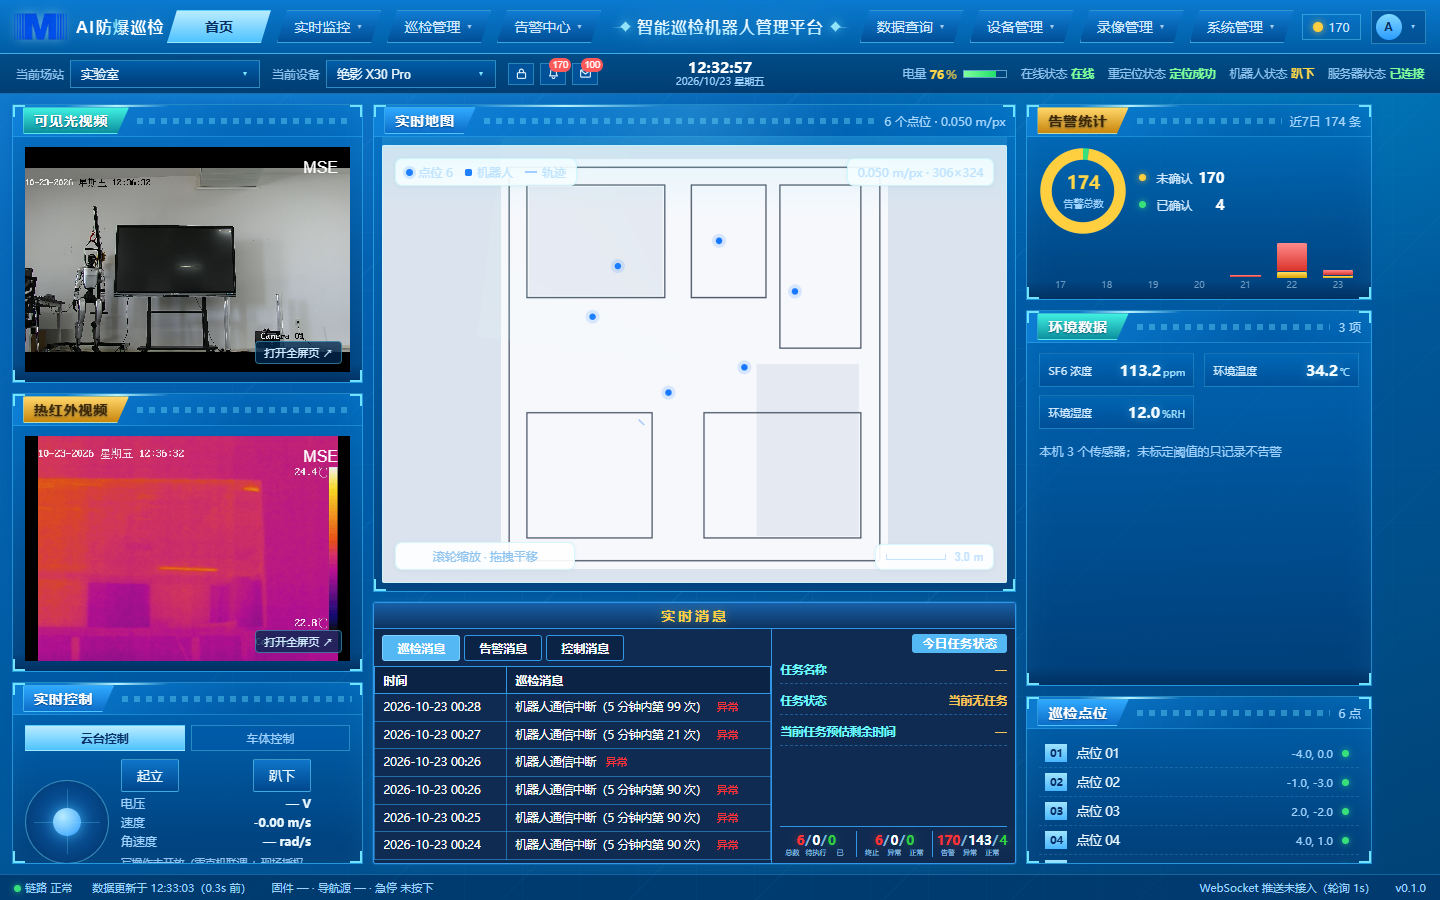
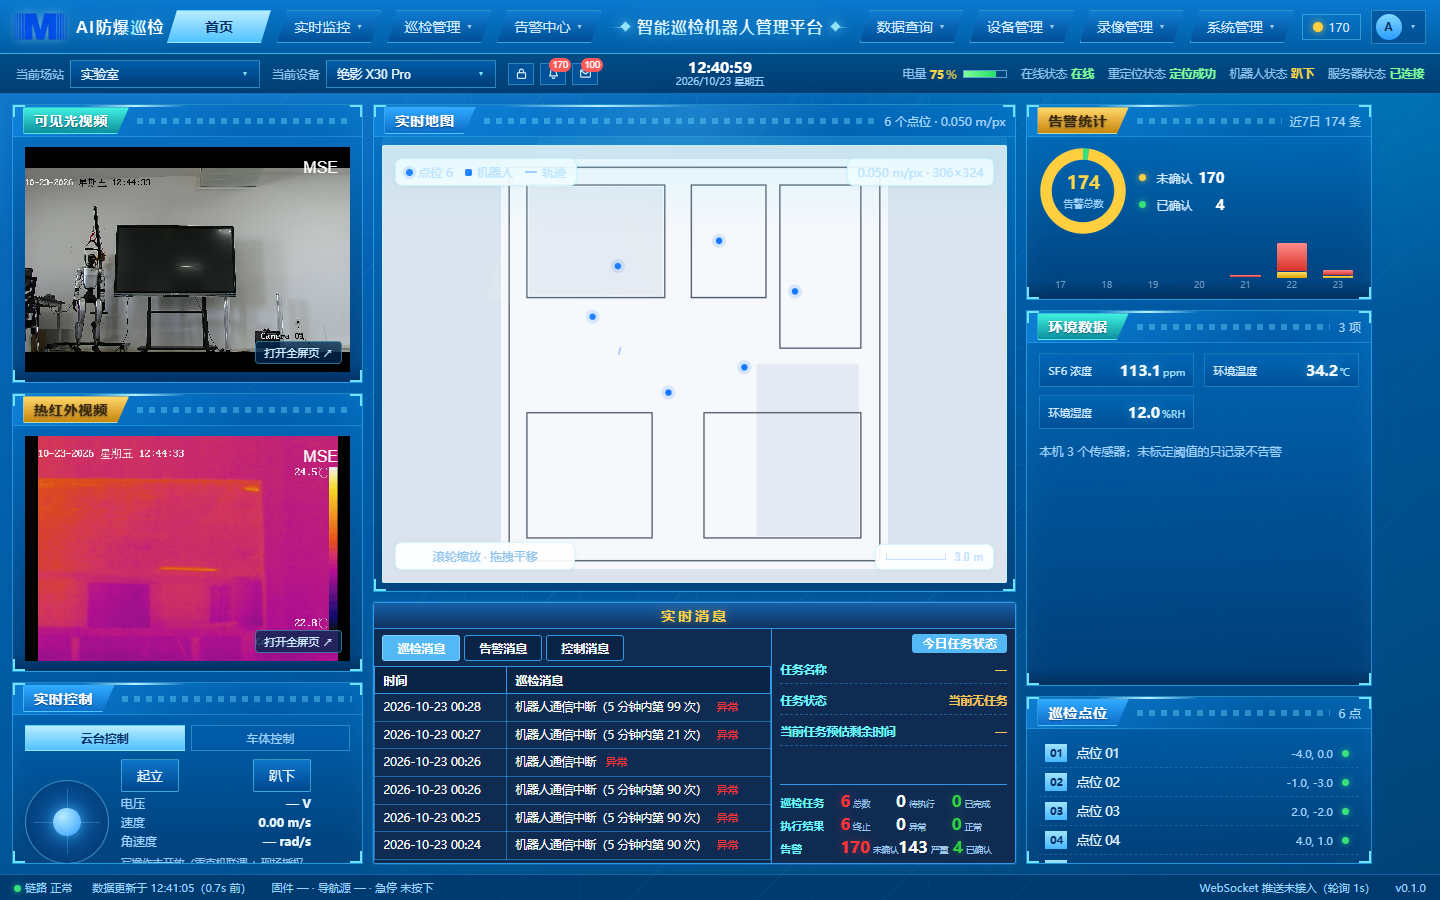
style(dashboard): 右侧底部指标重排——数字放大且完整显示
原来的三列"数字/数字/数字"在 38% 宽度里放不下 170/143 这种三位数，
改成一指标一行的矩阵式排布：

  巡检任务   6 总数    0 待执行   0 已完成
  执行结果   6 终止    0 异常     0 正常
  告警     170 未确认 143 严重    4 已确认

- 数字 16px / 800 字重（比原来 13px 大），语义色红/白/绿 + 发光
- 每行 grid(60px + 3×1fr) 对齐，三列数字上下对齐，扫读更快
- 小标签 8.5px 跟在数字右边，不再换行/裁切

Changed region(s): [[0.5312, 0.8711, 0.6875, 0.9644], [0.5, 0.0622, 0.5312, 0.0933]]

diff --git a/web/src/pages/Dashboard.vue b/web/src/pages/Dashboard.vue
@@ -538,17 +538,23 @@ async function logout() {
               <div class="rt-line"><span>当前任务预估剩余时间</span><b>{{ runEta }}</b></div>
 
               <div class="rt-groups">
-                <div class="rt-group">
-                  <div class="nums"><i class="r">{{ runStats.total }}</i><em>/</em><i class="w">{{ runStats.planned }}</i><em>/</em><i class="g">{{ runStats.done }}</i></div>
-                  <div class="caps"><span>总数</span><span>待执行</span><span>已</span></div>
+                <div class="rt-grow">
+                  <b class="gl">巡检任务</b>
+                  <span class="gv"><i class="r">{{ runStats.total }}</i><em>总数</em></span>
+                  <span class="gv"><i class="w">{{ runStats.planned }}</i><em>待执行</em></span>
+                  <span class="gv"><i class="g">{{ runStats.done }}</i><em>已完成</em></span>
                 </div>
-                <div class="rt-group">
-                  <div class="nums"><i class="r">{{ runStats.cancelled }}</i><em>/</em><i class="w">{{ runStats.failed }}</i><em>/</em><i class="g">{{ runStats.done }}</i></div>
-                  <div class="caps"><span>终止</span><span>异常</span><span>正常</span></div>
+                <div class="rt-grow">
+                  <b class="gl">执行结果</b>
+                  <span class="gv"><i class="r">{{ runStats.cancelled }}</i><em>终止</em></span>
+                  <span class="gv"><i class="w">{{ runStats.failed }}</i><em>异常</em></span>
+                  <span class="gv"><i class="g">{{ runStats.done }}</i><em>正常</em></span>
                 </div>
-                <div class="rt-group">
-                  <div class="nums"><i class="r">{{ alarmUnacked }}</i><em>/</em><i class="w">{{ alarmCritical }}</i><em>/</em><i class="g">{{ alarmAcked }}</i></div>
-                  <div class="caps"><span>告警</span><span>异常</span><span>正常</span></div>
+                <div class="rt-grow">
+                  <b class="gl">告警</b>
+                  <span class="gv"><i class="r">{{ alarmUnacked }}</i><em>未确认</em></span>
+                  <span class="gv"><i class="w">{{ alarmCritical }}</i><em>严重</em></span>
+                  <span class="gv"><i class="g">{{ alarmAcked }}</i><em>已确认</em></span>
                 </div>
               </div>
             </aside>
@@ -1353,17 +1359,17 @@ async function logout() {
   color: #f7c355; font-weight: 800; letter-spacing: .3px; text-align: right; max-width: 62%;
   overflow: hidden; text-overflow: ellipsis; white-space: nowrap;
 }
-.rt-groups { display: grid; grid-template-columns: repeat(3, minmax(0, 1fr)); gap: 0; margin-top: auto; flex: none;
-  border-top: 1px solid #3098e8; padding-top: 4px; }
-.rt-group { padding: 0 4px; border-left: 1px solid #3098e8; min-width: 0; }
-.rt-group:first-child { border-left: 0; padding-left: 0; }
-.rt-group .nums { text-align: center; font-size: 13px; font-weight: 700; white-space: nowrap; letter-spacing: -.2px; }
-.rt-group .nums i { font-style: normal; }
-.rt-group .nums em { font-style: normal; color: #7fb6dd; margin: 0 1px; }
-.rt-group .nums .r { color: #ff3333; text-shadow: 0 0 8px rgba(255, 51, 51, .45); }
-.rt-group .nums .w { color: #ffffff; }
-.rt-group .nums .g { color: #30d040; text-shadow: 0 0 8px rgba(48, 208, 64, .45); }
-.rt-group .caps { display: grid; grid-template-columns: repeat(3, 1fr); gap: 0; font-size: 7px; color: #9fc4e8; }
-.rt-group .caps span { text-align: center; white-space: nowrap; }
+.rt-groups {
+  display: flex; flex-direction: column; gap: 2px; margin-top: auto; flex: none;
+  border-top: 1px solid #3098e8; padding-top: 5px;
+}
+.rt-grow { display: grid; grid-template-columns: 60px repeat(3, 1fr); align-items: baseline; white-space: nowrap; }
+.rt-grow .gl { color: #71f9ff; font-size: 11px; font-weight: 700; }
+.rt-grow .gv { display: inline-flex; align-items: baseline; gap: 3px; justify-content: flex-start; }
+.rt-grow .gv i { font-style: normal; font-size: 16px; font-weight: 800; font-variant-numeric: tabular-nums; }
+.rt-grow .gv em { font-style: normal; color: #9fc4e8; font-size: 8.5px; }
+.rt-grow .gv i.r { color: #ff3333; text-shadow: 0 0 8px rgba(255, 51, 51, .4); }
+.rt-grow .gv i.w { color: #ffffff; }
+.rt-grow .gv i.g { color: #30d040; text-shadow: 0 0 8px rgba(48, 208, 64, .4); }
 
 </style>
